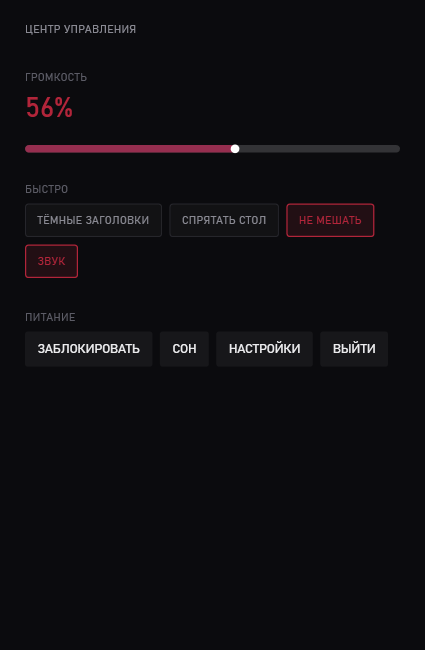
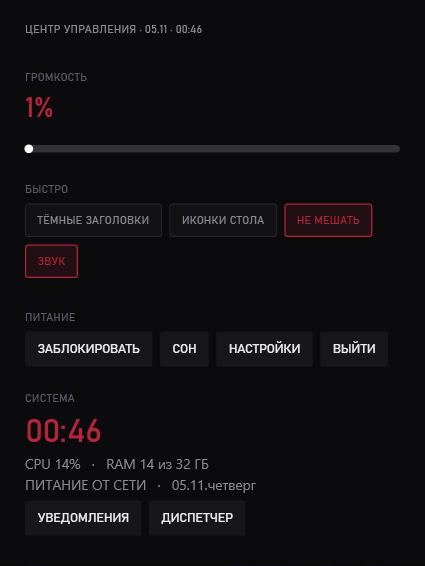
chore: полная синхронизация исходников с рабочим деревом
Добавлено 0, обновлено 6, удалено 0.
Раньше в репозиторий попадали только изменённые файлы: новые файлы не
доезжали, а удалённые оставались — CI собирал смесь двух поколений и падал.

diff --git a/src/DotShell.Island.Wpf/ControlCenterWindow.cs b/src/DotShell.Island.Wpf/ControlCenterWindow.cs
@@ -5,6 +5,7 @@ using System.Windows.Controls;
 using System.Windows.Input;
 using System.Windows.Media;
 using System.Windows.Media.Animation;
+using System.Windows.Threading;
 using DotShell.Core;
 using DotShell.Core.Audio;
 using DotShell.Core.Native;
@@ -22,6 +23,10 @@ public sealed class ControlCenterWindow : Window
     private static ControlCenterWindow? _open;
 
     private readonly SystemVolume _volume = new();
+    private readonly DispatcherTimer _statsTimer;
+    private TextBlock? _statsLine;
+    private TextBlock? _batteryLine;
+    private TextBlock? _clockLine;
     private readonly DotSeekBar _volumeBar;
     private readonly TextBlock _volumeValue;
 
@@ -119,14 +124,98 @@ public sealed class ControlCenterWindow : Window
         power.Children.Add(Chip("ВЫЙТИ", () => Application.Current.Shutdown()));
         root.Children.Add(power);
 
+        // Показатели системы: раньше центр управления показывал только громкость,
+        // и «сколько RAM занято» приходилось смотреть в другом месте.
+        root.Children.Add(Section("СИСТЕМА"));
+
+        _clockLine = new TextBlock
+        {
+            FontFamily = new FontFamily("Bahnschrift"),
+            FontSize = 26,
+            Foreground = new SolidColorBrush(ColorPalette.Accent),
+            Margin = new Thickness(0, 0, 0, 2),
+        };
+        root.Children.Add(_clockLine);
+
+        _statsLine = new TextBlock
+        {
+            FontFamily = new FontFamily("Segoe UI"),
+            FontSize = 11,
+            Foreground = new SolidColorBrush(Color.FromRgb(0x8A, 0x8A, 0x93)),
+            Margin = new Thickness(0, 0, 0, 2),
+        };
+        root.Children.Add(_statsLine);
+
+        _batteryLine = new TextBlock
+        {
+            FontFamily = new FontFamily("Segoe UI"),
+            FontSize = 11,
+            Foreground = new SolidColorBrush(Color.FromRgb(0x8A, 0x8A, 0x93)),
+            Margin = new Thickness(0, 0, 0, 6),
+        };
+        root.Children.Add(_batteryLine);
+
+        var actions = new WrapPanel();
+        actions.Children.Add(Chip("УВЕДОМЛЕНИЯ", () => OpenUri("ms-actioncenter:")));
+        actions.Children.Add(Chip("ДИСПЕТЧЕР", () => OpenUri("taskmgr.exe")));
+        root.Children.Add(actions);
+
         Content = new ScrollViewer { Content = root, VerticalScrollBarVisibility = ScrollBarVisibility.Auto };
+
+        _statsTimer = new DispatcherTimer { Interval = TimeSpan.FromSeconds(2) };
+        _statsTimer.Tick += (_, _) => RefreshStats();
+        _statsTimer.Start();
+        RefreshStats();
 
         KeyDown += (_, e) => { if (e.Key == Key.Escape) Close(); };
 
         bool activated = false;
         Activated += (_, _) => activated = true;
         Deactivated += (_, _) => { if (activated) Close(); };
-        Closed += (_, _) => { try { _volume.Dispose(); } catch { } if (ReferenceEquals(_open, this)) _open = null; };
+        Closed += (_, _) =>
+        {
+            _statsTimer.Stop();
+            try { _volume.Dispose(); } catch { }
+            if (ReferenceEquals(_open, this)) _open = null;
+        };
+    }
+
+    /// <summary>Часы и показатели системы раз в две секунды.</summary>
+    private void RefreshStats()
+    {
+        if (_clockLine is null) return;
+
+        var now = DateTime.Now;
+        _clockLine.Text = now.ToString("HH:mm");
+
+        var stats = ShellServices.Instance.Stats;
+
+        if (_statsLine is not null)
+        {
+            double totalGb = stats.TotalMemoryMb / 1024.0;
+            double usedGb = stats.UsedMemoryMb / 1024.0;
+
+            _statsLine.Text = $"CPU {stats.Cpu:0}%   ·   RAM {usedGb:0,0} из {totalGb:0,0} ГБ";
+        }
+
+        if (_batteryLine is not null)
+        {
+            _batteryLine.Text = stats.HasBattery
+                ? $"БАТАРЕЯ {(stats.Charging ? "+" : "")}{stats.Battery}%   ·   {now:dd.MM.dddd}"
+                : $"ПИТАНИЕ ОТ СЕТИ   ·   {now:dd.MM.dddd}";
+        }
+    }
+
+    private static void OpenUri(string target)
+    {
+        try
+        {
+            System.Diagnostics.Process.Start(new System.Diagnostics.ProcessStartInfo(target)
+            {
+                UseShellExecute = true,
+            });
+        }
+        catch { }
     }
 
     private void SyncVolume()

diff --git a/CHANGELOG.md b/CHANGELOG.md
@@ -5,6 +5,28 @@
 
 ---
 
+## 0.89.0 — центр управления: система, а не только громкость
+
+В центре управления было два блока и пустота в треть экрана. Теперь он отвечает на
+вопросы, с которыми туда и заходят.
+
+### Что добавилось
+
+- **часы** крупным акцентом и дата строкой;
+- **CPU и память** («CPU 14% · RAM 14 из 32 ГБ») — обновление раз в 2 секунды;
+- **питание**: «БАТАРЕЯ +87%» на ноутбуке, «ПИТАНИЕ ОТ СЕТИ» на десктопе;
+- кнопки **УВЕДОМЛЕНИЯ** (открывает системный центр уведомлений `ms-actioncenter:`)
+  и **ДИСПЕТЧЕР**.
+
+### Эстетика
+
+Высота — по содержимому: окно стало 425×566 вместо 425×650 с пустотой. В шапке дата и
+время. Подпись «СПРЯТАТЬ СТОЛ» из 0.86.0 стала «ИКОНКИ СТОЛА».
+
+Проверено снимком реальных пикселей.
+
+---
+
 ## 0.88.0 — поиск по настройкам
 
 В настройках 76 полей в шести категориях. Без поиска вопрос «где порог „не мешать“»

diff --git a/README.md b/README.md
@@ -344,6 +344,6 @@ build.bat installer  :: publish + установщик (нужен Inno Setup 6)
 
 <div align="center">
 
-*Собрано человеком, [Qwen](https://chat.qwen.ai) и [DeepSeek](https://deepseek.com) · [v0.88.0](../../releases/tag/v0.88.0) · остров, который уже живёт на экране*
+*Собрано человеком, [Qwen](https://chat.qwen.ai) и [DeepSeek](https://deepseek.com) · [v0.89.0](../../releases/tag/v0.89.0) · остров, который уже живёт на экране*
 
 </div>

diff --git a/ROADMAP.md b/ROADMAP.md
@@ -1,6 +1,6 @@
 # План работы
 
-Состояние на **0.88.0**. Это не обещание сроков, а карта: что стоит, что следующее и
+Состояние на **0.89.0**. Это не обещание сроков, а карта: что стоит, что следующее и
 почему в таком порядке.
 
 Легенда: ✔ сделано · ~ частично · ☐ не начато
